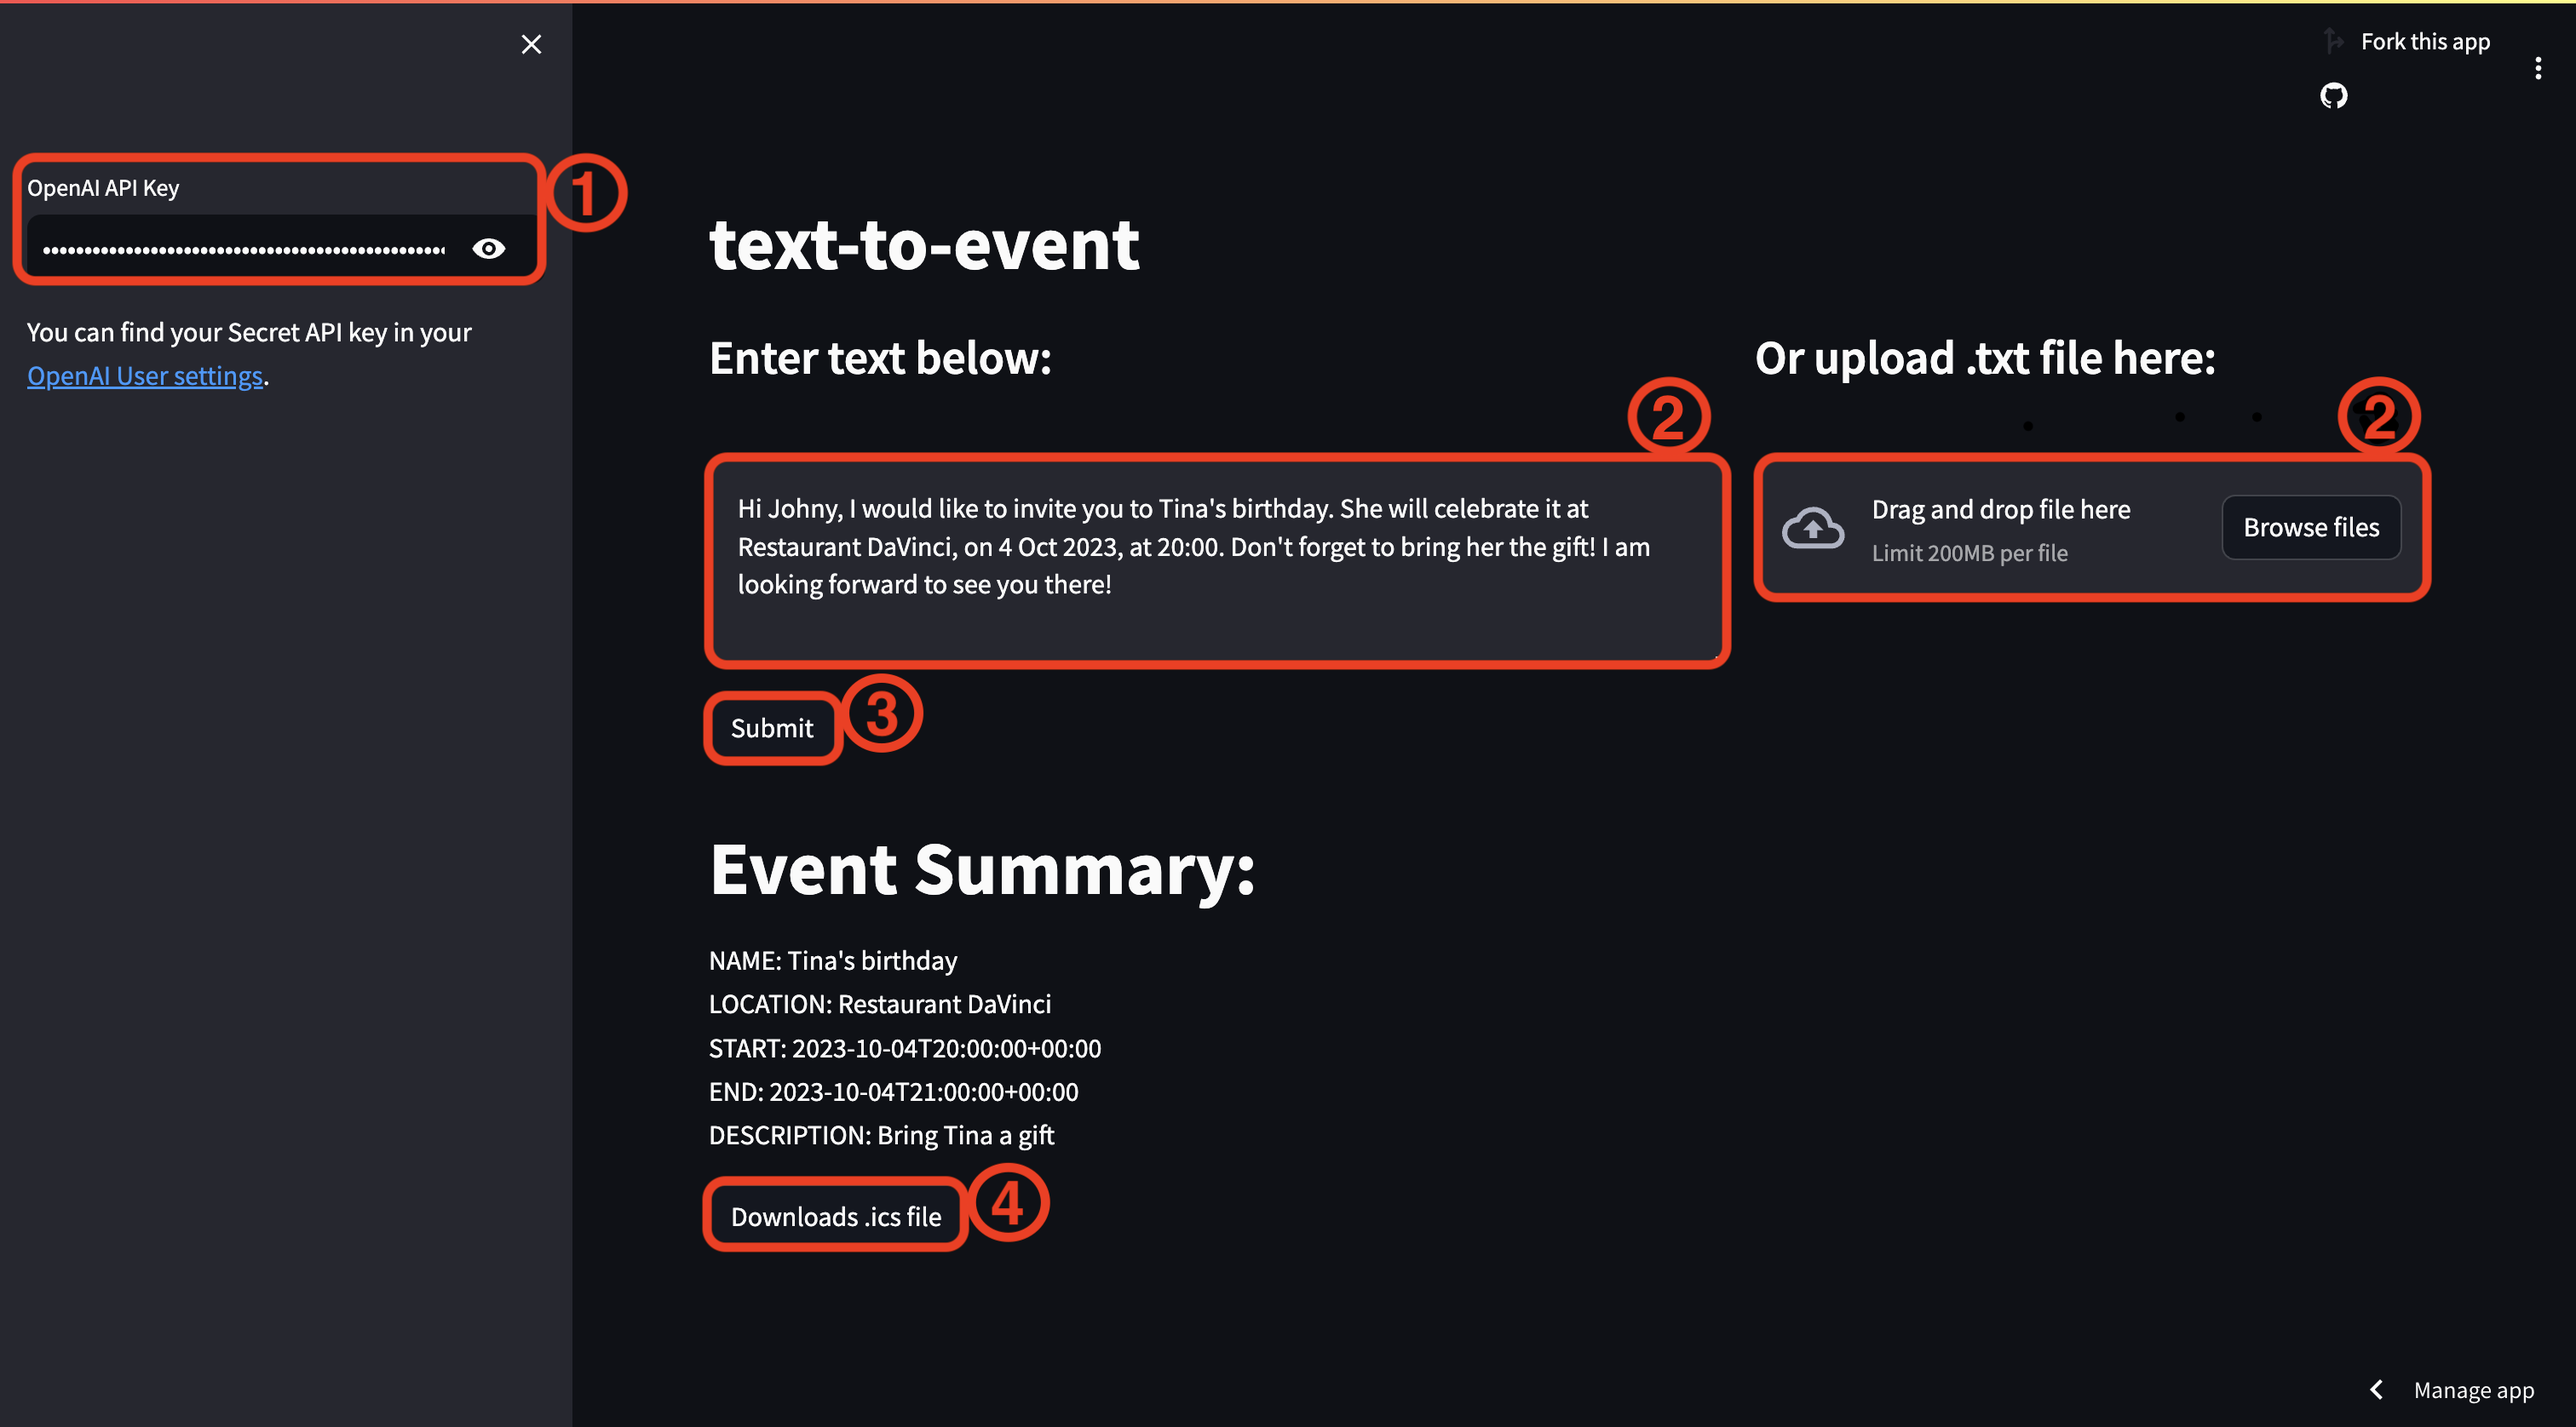
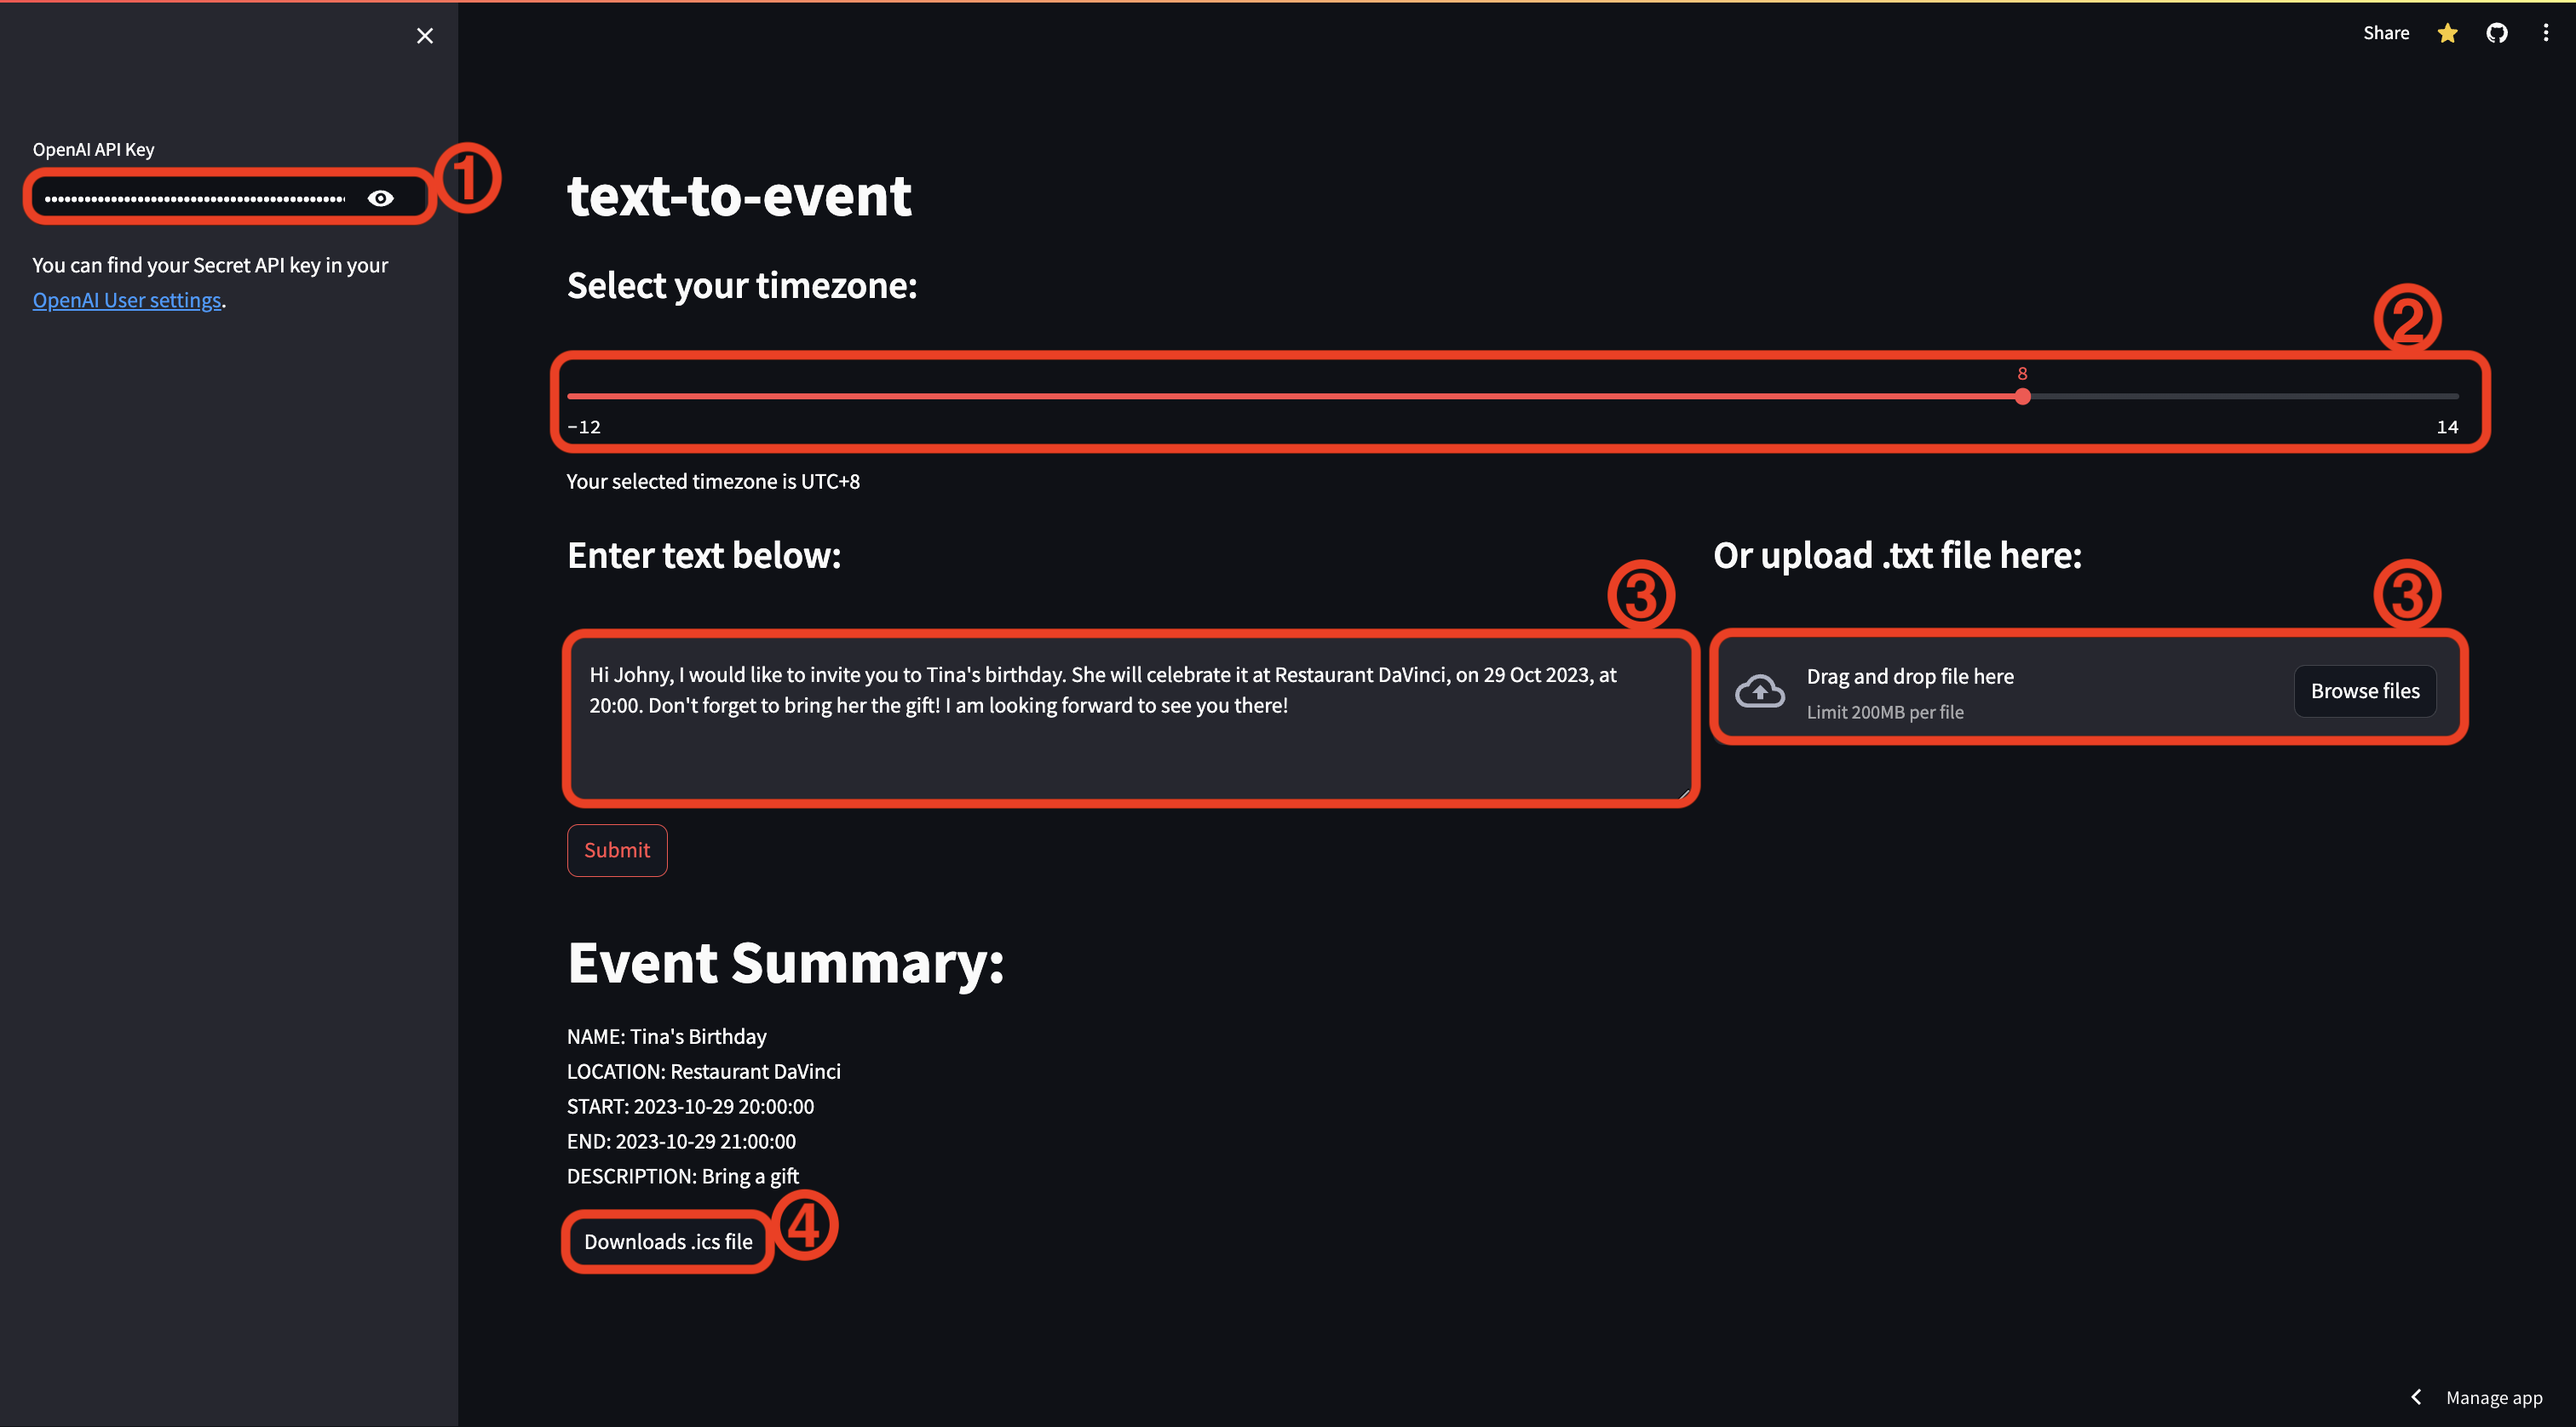
Adjusted instructions after timezone integration

Changed region(s): [[0.0, 0.0, 0.9947, 1.0], [0.9015, 0.0, 0.9947, 0.031], [0.9325, 0.9618, 0.9947, 0.9928]]

diff --git a/README.md b/README.md
@@ -5,8 +5,8 @@ App accessible at https://text-to-event.streamlit.app
 
 ### Instructions:
 1) Enter your OpenAI API key in the box from the sidebar;
-2) Enter the text you want to extract the details of your event from in the large box. Alternatively, you can upload a text file;
-3) Press the submit button to retrieve the event information from your text;
+2) Select your timezone using the slider;
+3) Enter the text you want to extract the details of your event from in the large box and press submit. Alternatively, you can upload a text file;
 4) Download the .ics file to drop it in your Apple Calendar or [import it in your Google Calendar](https://support.google.com/calendar/thread/3231927/how-do-i-import-ics-files-into-google-calendar?hl=en).
 
 ![Intructions.png](Instructions.png)
